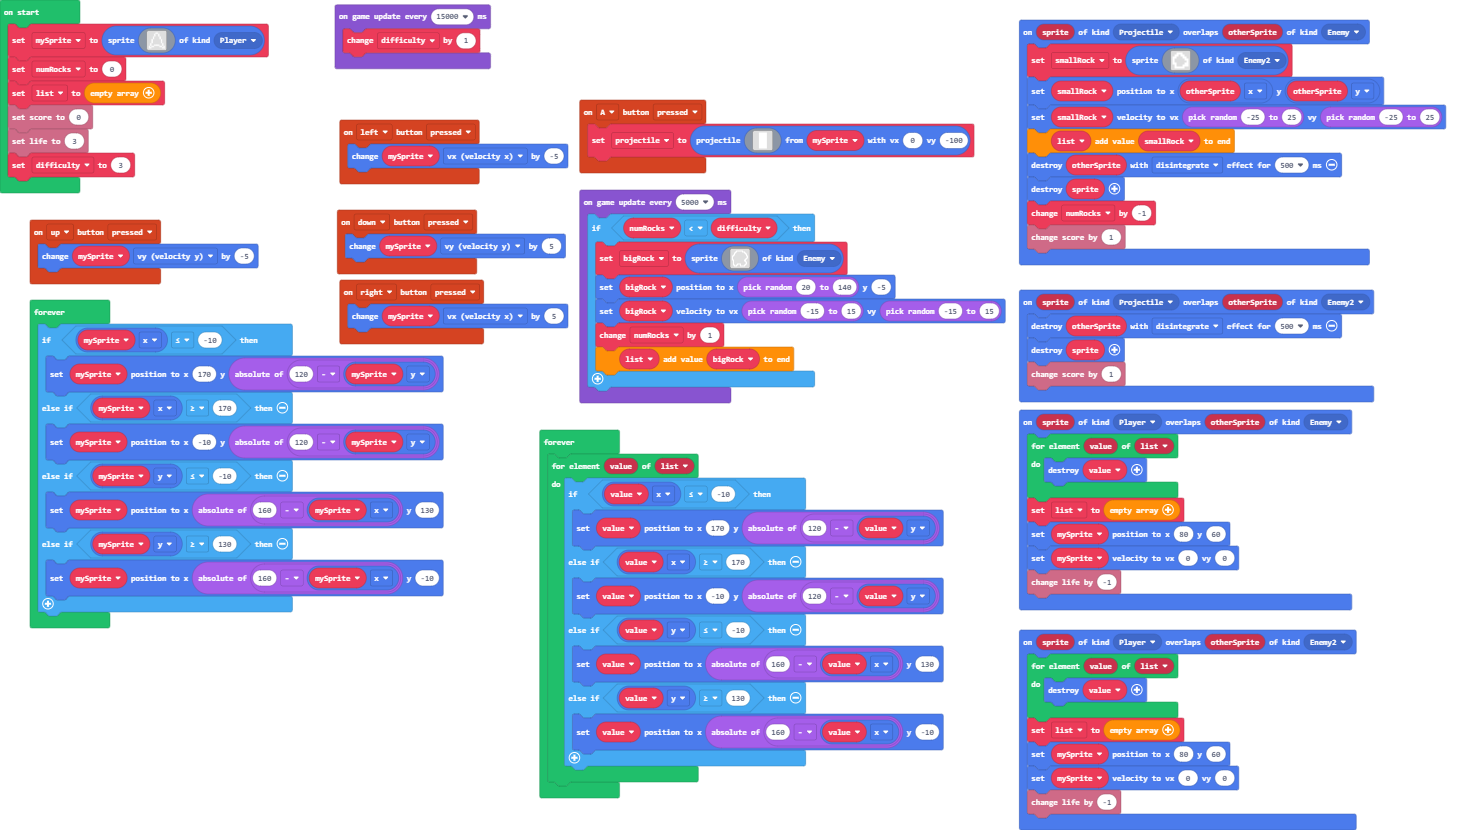
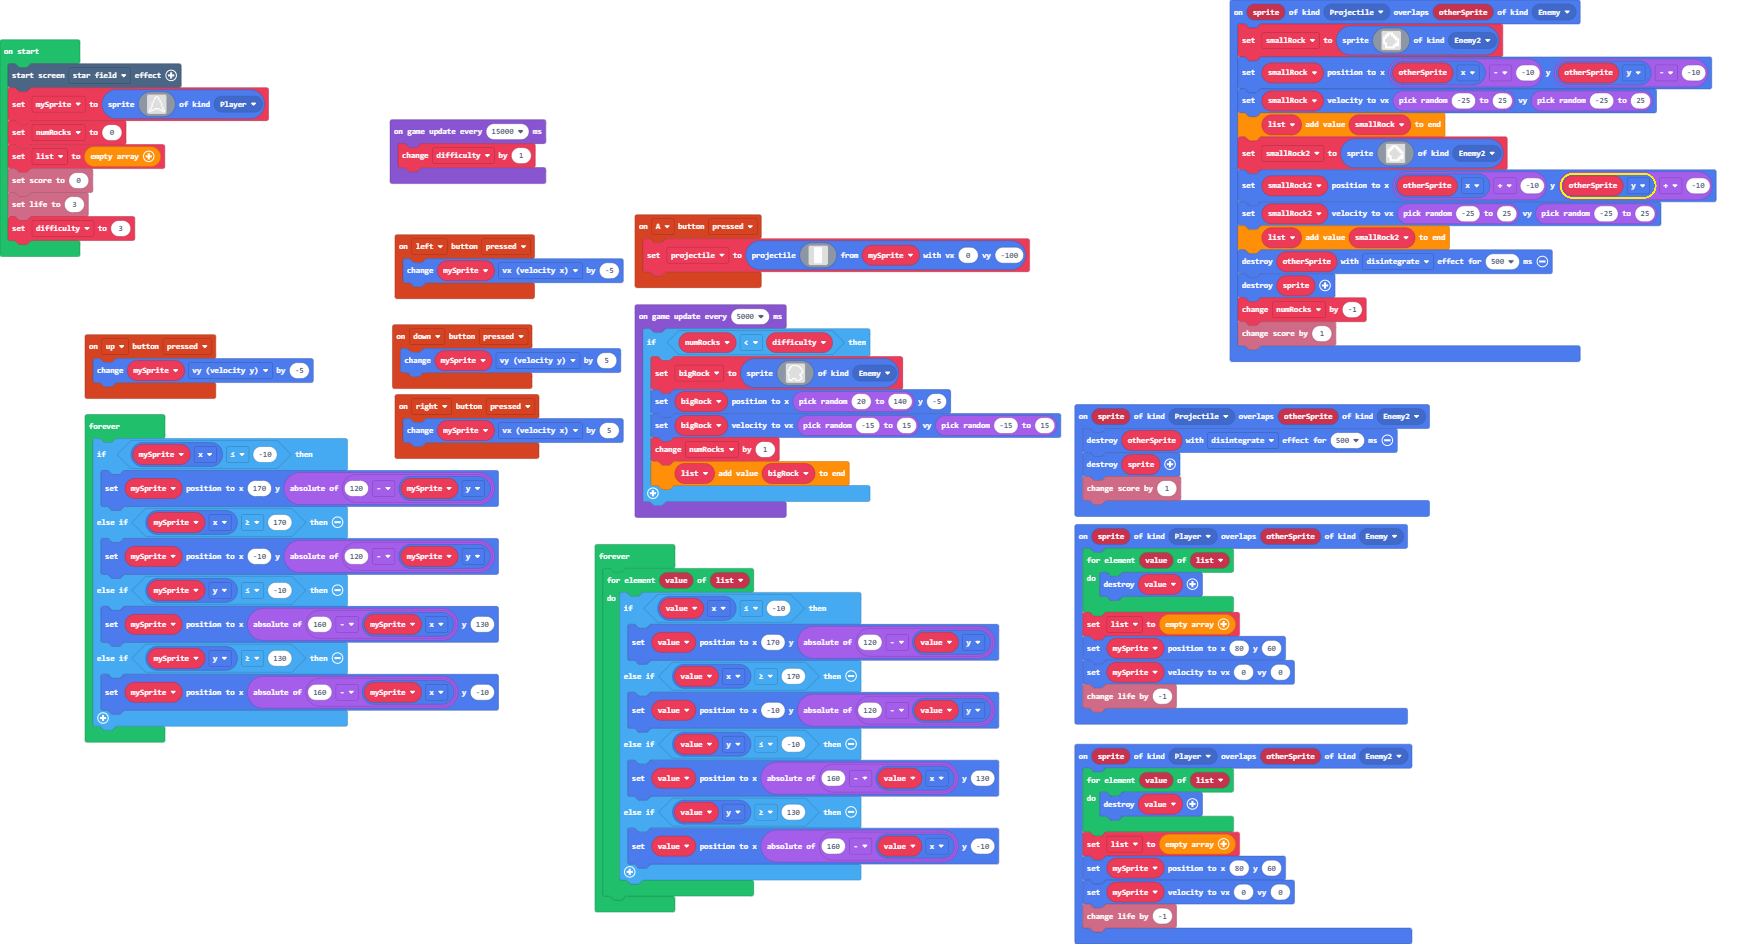
fixed smaller rocks

diff --git a/main.ts b/main.ts
@@ -44,9 +44,22 @@ sprites.onOverlap(SpriteKind.Projectile, SpriteKind.Enemy, function (sprite, oth
         . 1 . . . 1 1 1 
         . 1 1 1 1 1 . . 
         `, SpriteKind.Enemy2)
-    smallRock.setPosition(otherSprite.x, otherSprite.y)
+    smallRock.setPosition(otherSprite.x - -10, otherSprite.y - -10)
     smallRock.setVelocity(randint(-25, 25), randint(-25, 25))
     list.push(smallRock)
+    smallRock2 = sprites.create(img`
+        . . 1 1 1 . . . 
+        . 1 1 . 1 1 . . 
+        1 1 . . . 1 1 . 
+        1 . . . . . 1 1 
+        1 . . . . . . 1 
+        1 1 . . . . 1 1 
+        . 1 . . . 1 1 1 
+        . 1 1 1 1 1 . . 
+        `, SpriteKind.Enemy2)
+    smallRock2.setPosition(otherSprite.x + -10, otherSprite.y + -10)
+    smallRock2.setVelocity(randint(-25, 25), randint(-25, 25))
+    list.push(smallRock2)
     otherSprite.destroy(effects.disintegrate, 500)
     sprite.destroy()
     numRocks += -1
@@ -62,10 +75,12 @@ sprites.onOverlap(SpriteKind.Player, SpriteKind.Enemy, function (sprite, otherSp
     info.changeLifeBy(-1)
 })
 let bigRock: Sprite = null
+let smallRock2: Sprite = null
 let smallRock: Sprite = null
 let projectile: Sprite = null
 let list: Sprite[] = []
 let mySprite: Sprite = null
+effects.starField.startScreenEffect()
 mySprite = sprites.create(img`
     . . . . . 1 1 . . . . . 
     . . . . 1 . . 1 . . . . 

diff --git a/tilemap.g.ts b/tilemap.g.ts
@@ -1,0 +1,14 @@
+// Auto-generated code. Do not edit.
+namespace myTiles {
+    //% fixedInstance jres blockIdentity=images._tile
+    export const transparency16 = image.ofBuffer(hex``);
+
+    helpers._registerFactory("tile", function(name: string) {
+        switch(helpers.stringTrim(name)) {
+            case "transparency16":return transparency16;
+        }
+        return null;
+    })
+
+}
+// Auto-generated code. Do not edit.

diff --git a/images.g.ts b/images.g.ts
@@ -49,6 +49,16 @@ namespace myImages {
 . 1 . . . 1 1 1 
 . 1 1 1 1 1 . . 
 `;
+            case "image6":return img`
+. . 1 1 1 . . . 
+. 1 1 . 1 1 . . 
+1 1 . . . 1 1 . 
+1 . . . . . 1 1 
+1 . . . . . . 1 
+1 1 . . . . 1 1 
+. 1 . . . 1 1 1 
+. 1 1 1 1 1 . . 
+`;
             case "image5":return img`
 . . 1 1 1 . . . 
 . 1 1 . 1 1 . . 
